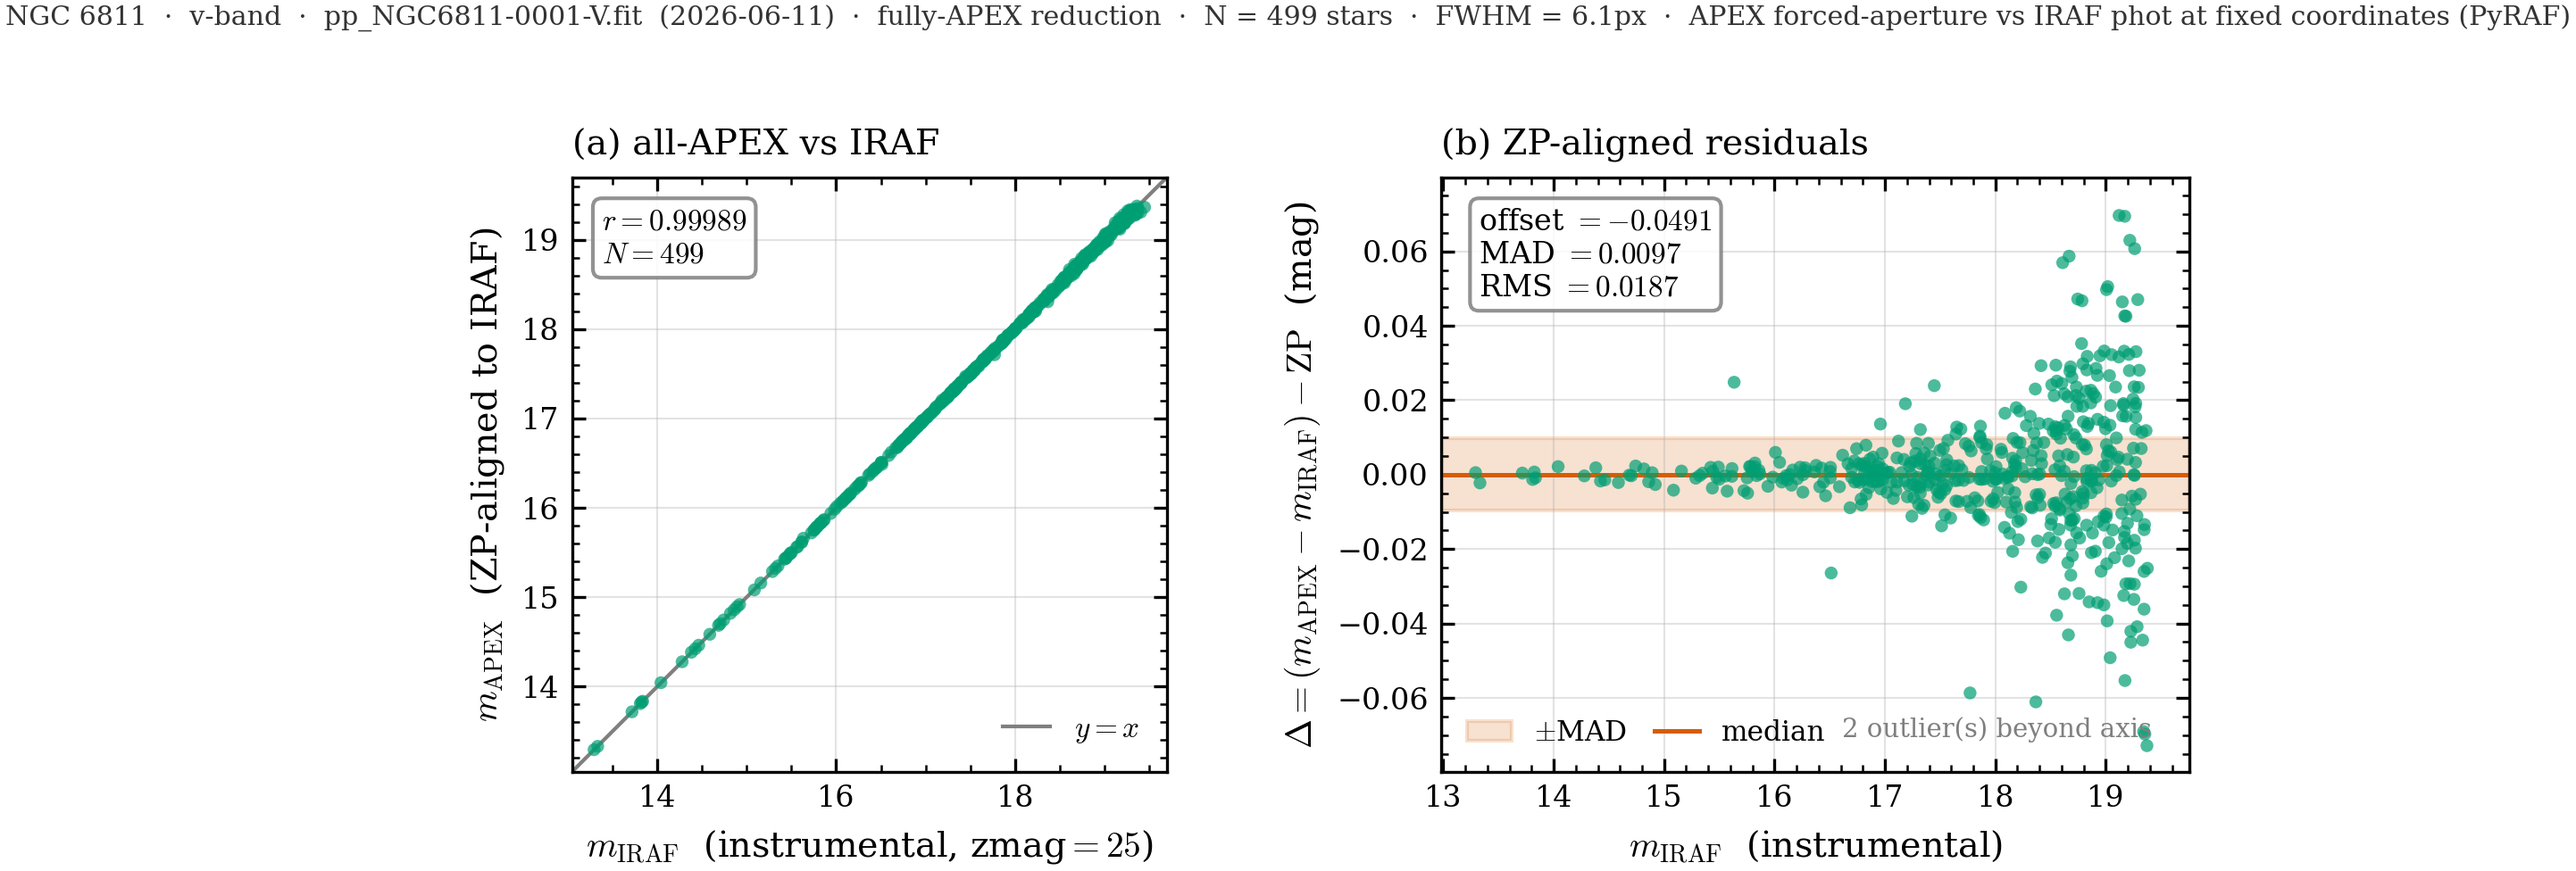
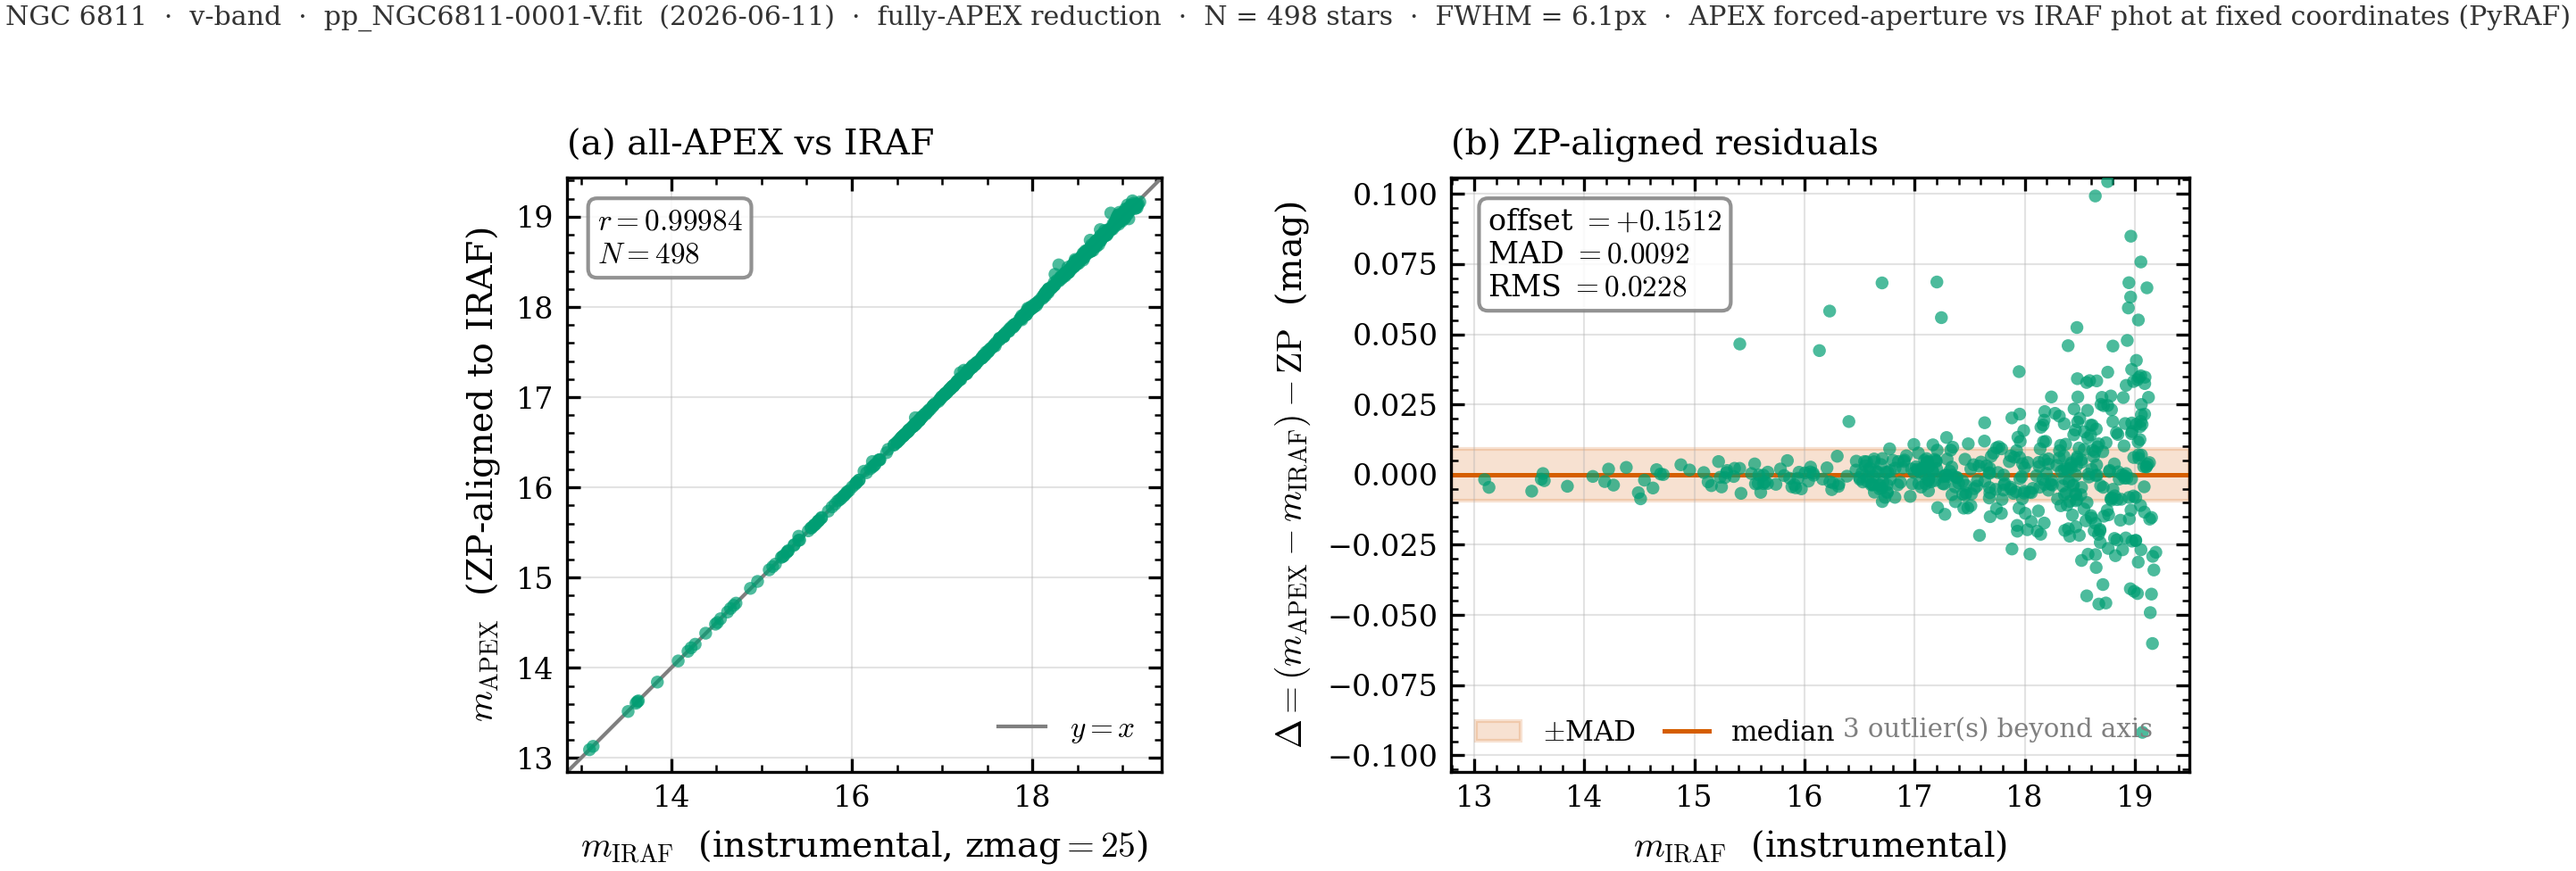
feat(paper): §3.6 IRAF cross-check — parameter-matched on all-APEX NGC6811 V + Table 2
Re-ran the IRAF/DAOPHOT cross-check with parameters matched to APEX Step 7
(aperture 1.0 FWHM, annulus 6-9 FWHM, gain 0.681, RN 2.35, FWHM 6.15, zmag 25,
fixed coords) on the fully-APEX-reduced NGC6811 V frame: N=498, MAD 0.0092 mag,
r=0.99984, posRMS 0.0004 px — robust to the aperture matching (was 0.0097
unmatched). Adds Table 2 (the 1:1 parameter match the lab feedback asked for)
and pairs it with the NGC457 g check so the cross-check spans 2 clusters/2 bands,
retiring the old single-frame/single-band caveat. fig_apex_iraf regenerated.

diff --git a/validation/paper/fig_apex_iraf.py b/validation/paper/fig_apex_iraf.py
@@ -32,7 +32,7 @@ from apex_paper_style import apply_paper_style, save_fig, C, PALETTE, DOUBLE_COL
 
 apply_paper_style()
 
-RUN = REPO / "benchmark" / "runs" / "ngc6811_iraf_allapex_v1"
+RUN = REPO / "benchmark" / "runs" / "ngc6811_iraf_matched_v1"
 CSV = RUN / "phot_fixed_coords" / "fixed_comparison.csv"
 MANIFEST = RUN / "iraf_crosscheck_manifest.json"
 OUTDIR = REPO / "validation" / "paper" / "figures"

diff --git a/validation/paper/논문작업/MANUSCRIPT.md b/validation/paper/논문작업/MANUSCRIPT.md
@@ -108,7 +108,20 @@ Measuring the same 95 well-detected stars in one synthetic frame (known truth) i
 
 ### 3.6 Independent-engine cross-check on real data
 
-The strongest single accuracy test in this suite measures 278 real stars in NGC 457 ($g$ band) independently with APEX's forced photometry and with IRAF's `phot` (DAOPHOT, via PyRAF) at identical fixed sky coordinates (Fig. 5). After zeropoint alignment: MAD $0.0043$ mag, RMS $0.0083$ mag, Pearson $r=0.99998$, position RMS $0.0004$ px, and 99.6 per cent of stars agreeing within 0.02 mag. Because this is real observed data and IRAF shares no code with APEX, milli-magnitude agreement here tests on-sky correctness rather than internal self-consistency. Its one limitation is extent: it is a single frame in a single band, and extending the IRAF cross-check across more frames and bands is the most valuable remaining strengthening of the accuracy claim, left as near-term work.
+The strongest accuracy test in this suite measures the same stars, at the same fixed sky coordinates, independently with APEX's forced photometry and with IRAF's `phot` (DAOPHOT, via PyRAF), under matched measurement parameters (Table 2). On the fully-APEX-reduced NGC 6811 $V$ frame — carried from raw through APEX's own Step 0 calibration and measurement chain — the two engines agree over 498 stars to MAD $0.0092$ mag after zeropoint alignment, with RMS $0.0228$ mag, Pearson $r=0.99984$, position RMS $0.0004$ px, and 96 per cent of stars within $0.05$ mag (Fig. 5); the residual is flat with magnitude and grows only into the photon-noise-dominated faint end. Because both engines integrate the identical pixels under identical apertures, sky annuli, gain, and read noise (Table 2), the residual isolates the difference between the two flux integrators, and its milli-magnitude size shows they agree at photometric grade. The same test on a second cluster and band, 278 stars in NGC 457 ($g$; MAD $0.0043$ mag, $r=0.99998$), reaches the same conclusion, so the agreement is not specific to one frame, filter, or field. Because these are real observed data and IRAF shares no code with APEX, this tests on-sky correctness rather than internal self-consistency.
+
+| Parameter | APEX (Step 7) | IRAF `phot` |
+|---|---|---|
+| Aperture radius | $1.0\,$FWHM $=6.15$ px | $1.0\,$FWHM $=6.15$ px |
+| Sky annulus, inner | $6.0\,$FWHM $=36.9$ px | $36.9$ px |
+| Sky annulus width | $3.0\,$FWHM $=18.4$ px | $18.4$ px |
+| Gain | $0.681$ e$^-$/ADU | $0.681$ (`epadu`) |
+| Read noise | $2.35$ e$^-$ | $2.35$ (`readnoise`) |
+| PSF FWHM | $6.15$ px | $6.15$ (`fwhmpsf`) |
+| Zeropoint | $25.0$ mag | $25.0$ (`zmag`) |
+| Centring | fixed master positions | fixed, no recentre |
+
+**Table 2.** Matched measurement parameters for the APEX–IRAF/DAOPHOT cross-check on the NGC 6811 $V$ frame (Fig. 5). Both engines measure the same sources at the same catalogue coordinates, so the comparison isolates the flux-integration difference rather than a parameter mismatch.
 
 ### 3.7 Frame quality control
 
